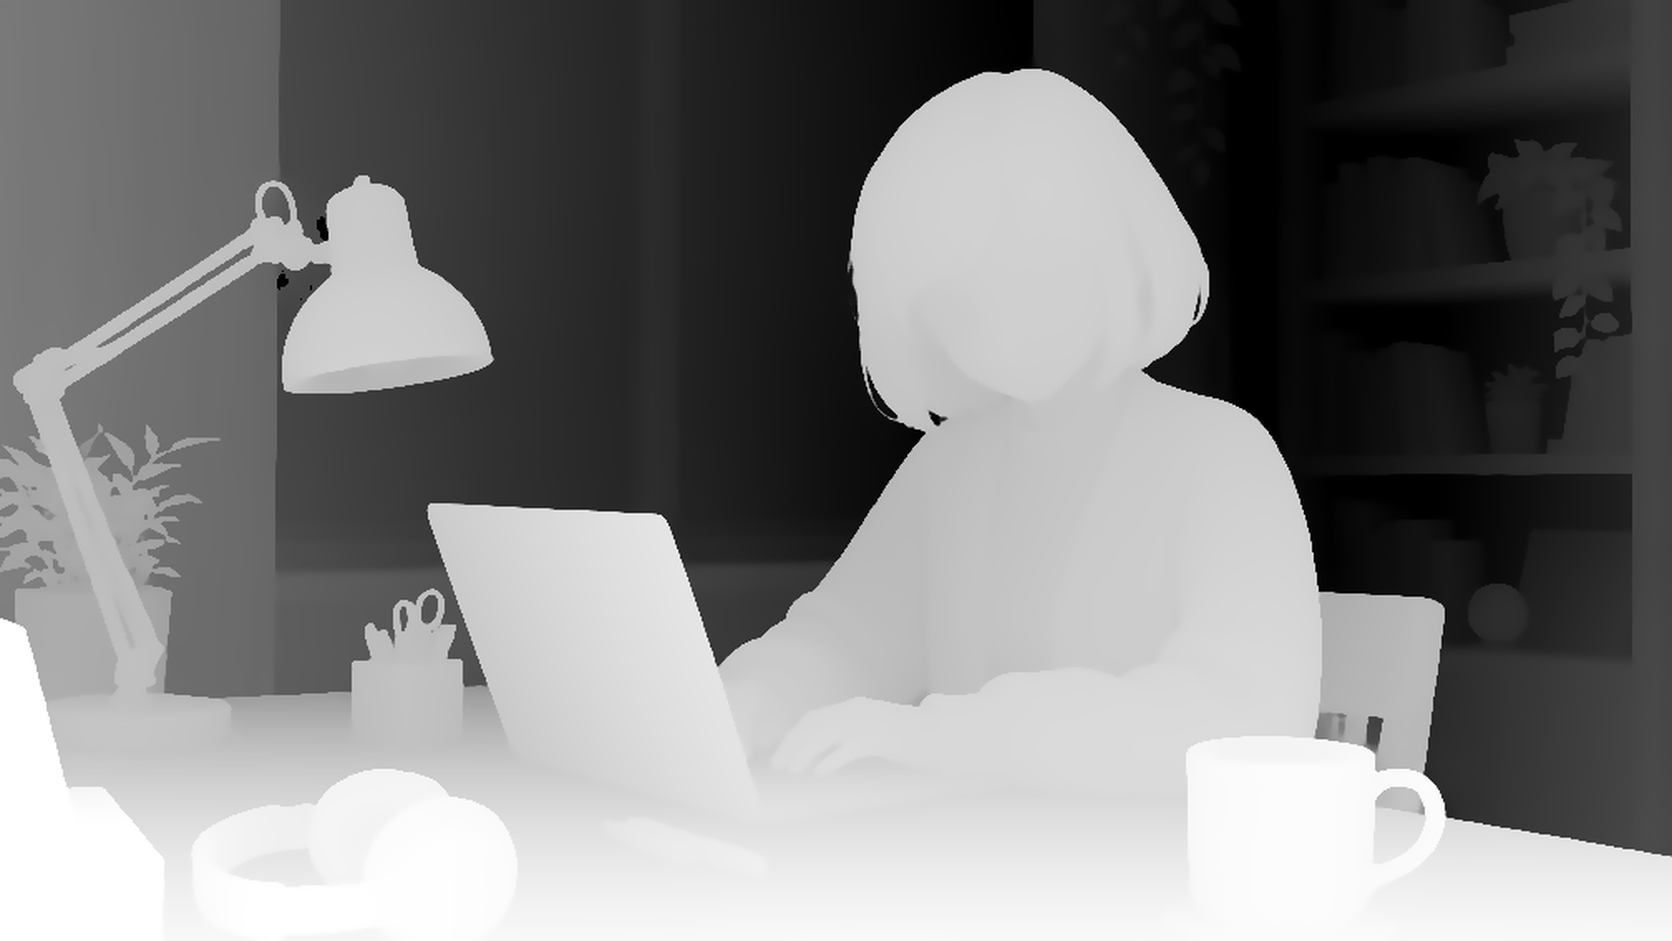
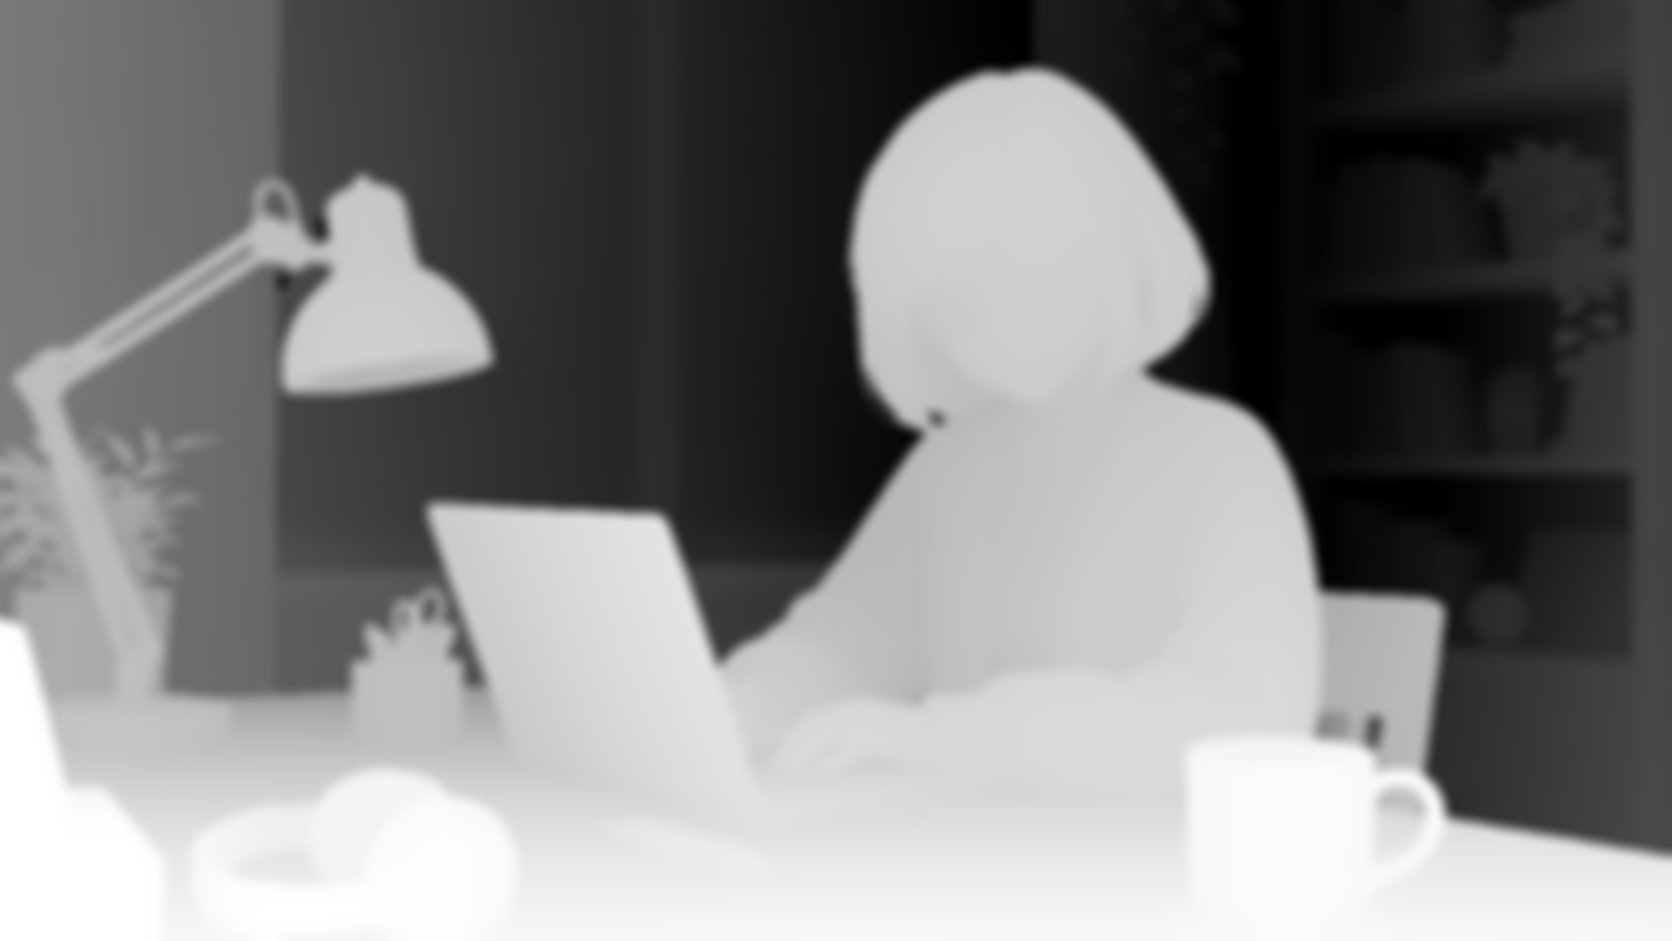
update: smooth focus room parallax depth edges

diff --git a/apps/pomo/src/features/focus-room-animation/__tests__/scene-renderer-updates.spec.ts b/apps/pomo/src/features/focus-room-animation/__tests__/scene-renderer-updates.spec.ts
@@ -400,8 +400,8 @@ describe('PSceneRenderer updates and motion', () => {
     vi.clearAllMocks()
 
     parallaxRender?.(0.5, -0.5)
-    expect(depthFilters[0].setPointerOffset).toHaveBeenCalledWith(4.5, -3)
-    expect(steamInstances[0].setParallaxOffset.mock.calls[0]?.[0]).toBeCloseTo(-2.475)
+    expect(depthFilters[0].setPointerOffset).toHaveBeenCalledWith(2.5, -3)
+    expect(steamInstances[0].setParallaxOffset.mock.calls[0]?.[0]).toBeCloseTo(-1.375)
     expect(steamInstances[0].setParallaxOffset.mock.calls[0]?.[1]).toBeCloseTo(1.65)
     expect(applications[0].canvas.style.objectPosition).toBe('60% center')
 

diff --git a/apps/pomo/src/features/focus-room-animation/scene-renderer.ts b/apps/pomo/src/features/focus-room-animation/scene-renderer.ts
@@ -23,7 +23,7 @@ interface PreparedScene {
 }
 
 const SCENE_TRANSITION_DURATION = 600
-const DEPTH_PARALLAX_MAXIMUM_X = 9
+const DEPTH_PARALLAX_MAXIMUM_X = 5
 const DEPTH_PARALLAX_MAXIMUM_Y = 6
 const STEAM_PARALLAX_DEPTH = 0.55
 

diff --git a/apps/pomo/docs/plan/development/2d-scene-variant-workflow.md b/apps/pomo/docs/plan/development/2d-scene-variant-workflow.md
@@ -225,11 +225,11 @@ cd apps/pomo && node scripts/compress-focus-room-scenes.mjs --depth-only
 
 일부 장면만 갱신할 때는 `--only focus-room-<장면>-concept`를 장면마다 반복한다. 이 방식은 선택하지 않은 입력과 깊이맵의 해시가 모두 일치하는 완전한 기존 manifest가 있어야 실행된다.
 
-생성 설정과 원본 SHA-256은 `asset-library/focus-room-source/depth/manifest.json`에 기록한다. 결과가 입력과 같은 크기의 8-bit grayscale PNG인지 확인한다. 원본 PNG는 이 경로에 보존하고 런타임은 픽셀 값이 동일한 무손실 WebP만 로드한다.
+생성 설정과 원본 SHA-256은 `asset-library/focus-room-source/depth/manifest.json`에 기록한다. 결과가 입력과 같은 크기의 8-bit grayscale PNG인지 확인한다. 원본 PNG는 이 경로에 그대로 보존한다. 런타임은 오브젝트 경계에서 패럴랙스 샘플 좌표가 역전되지 않도록 σ=6으로 부드럽게 만든 무손실 WebP를 로드한다.
 
 ## 11. 런타임 장면을 고품질로 압축한다
 
-원본 PNG는 AI 재편집과 depth-map 재생성을 위해 보존하고, 장면과 베이스에는 WebP quality 95를 사용한다. 대표 장면에서 원본 3.4MB가 298KB로 줄었고 평균 MAE는 1.09/255, PSNR은 44.7dB였다. 알파 스프라이트는 alpha quality 100의 quality 95 WebP와 무손실 WebP 중 작은 결과를 사용하며, 깊이맵과 마스크는 무손실로 유지한다. 실제 PixiJS 합성 화면에서 품질을 확인한 뒤 같은 설정을 적용한다.
+원본 PNG는 AI 재편집과 depth-map 재생성을 위해 보존하고, 장면과 베이스에는 WebP quality 95를 사용한다. 대표 장면에서 원본 3.4MB가 298KB로 줄었고 평균 MAE는 1.09/255, PSNR은 44.7dB였다. 알파 스프라이트는 alpha quality 100의 quality 95 WebP와 무손실 WebP 중 작은 결과를 사용하며, 마스크와 부드럽게 만든 런타임 깊이맵은 무손실로 유지한다. 실제 PixiJS 합성 화면에서 품질을 확인한 뒤 같은 설정을 적용한다.
 
 원본 PNG는 WebP 생성 입력이자 보관 자산이다. 이름을 바꾸거나 덮어쓰지 않으며, 변경 전후에 다음 명령으로 체크섬을 검증한다.
 

diff --git a/apps/pomo/asset-library/focus-room-source/README.md b/apps/pomo/asset-library/focus-room-source/README.md
@@ -10,4 +10,4 @@ This directory stores editable, lossless source files only. Runtime code must im
 - `depth/`: exact 8-bit depth maps and their generation manifest
 - `status-icons/`: lossless Pomodoro status icon inputs
 
-After changing an image source, run `node scripts/compress-focus-room-scenes.mjs` from `apps/pomo`. The compressor keeps depth maps and masks lossless, quality-checks alpha sprites before choosing a smaller high-quality WebP over lossless WebP, and removes stale generated outputs. The Vite configuration rejects imports from this directory so source files cannot enter a production bundle accidentally.
+After changing an image source, run `node scripts/compress-focus-room-scenes.mjs` from `apps/pomo`. The compressor preserves exact source depth maps while generating lossless, edge-smoothed runtime parallax maps, keeps masks lossless, quality-checks alpha sprites before choosing a smaller high-quality WebP over lossless WebP, and removes stale generated outputs. The Vite configuration rejects imports from this directory so source files cannot enter a production bundle accidentally.

diff --git a/apps/pomo/scripts/README.md b/apps/pomo/scripts/README.md
@@ -18,7 +18,7 @@
 
 원본은 `asset-library/focus-room-source`에 둔다. 장면 생성 절차는 [2D 장면 워크플로](../docs/plan/development/2d-scene-variant-workflow.md)를 따른다.
 
-- `compress-focus-room-scenes.mjs` — PNG를 WebP로 압축해 런타임 자산에 복사한다. `--depth-only`는 깊이맵만 처리한다.
+- `compress-focus-room-scenes.mjs` — PNG를 WebP로 압축해 런타임 자산에 복사한다. 깊이맵은 원본을 보존하면서 패럴랙스 경계를 부드럽게 만든 무손실 WebP로 생성하며, `--depth-only`는 깊이맵만 처리한다.
 - `create-focus-room-mouth-assets.mjs` — 입 없는 얼굴과 입 마스크를 만든다.
 - `create-focus-room-blink-assets.mjs` — 깜빡임 레이어를 추출한다. `POMO_BLINK_SOURCE_DIRECTORY`가 필요하다.
 - `create-focus-room-eye-motion-assets.mjs` — 홍채와 눈 베이스 레이어를 만든다.
